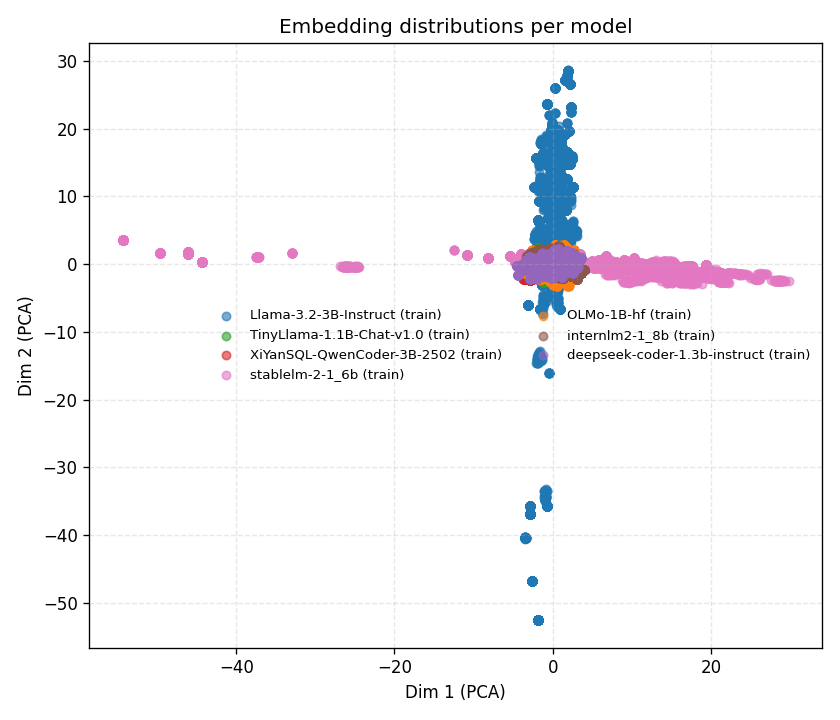
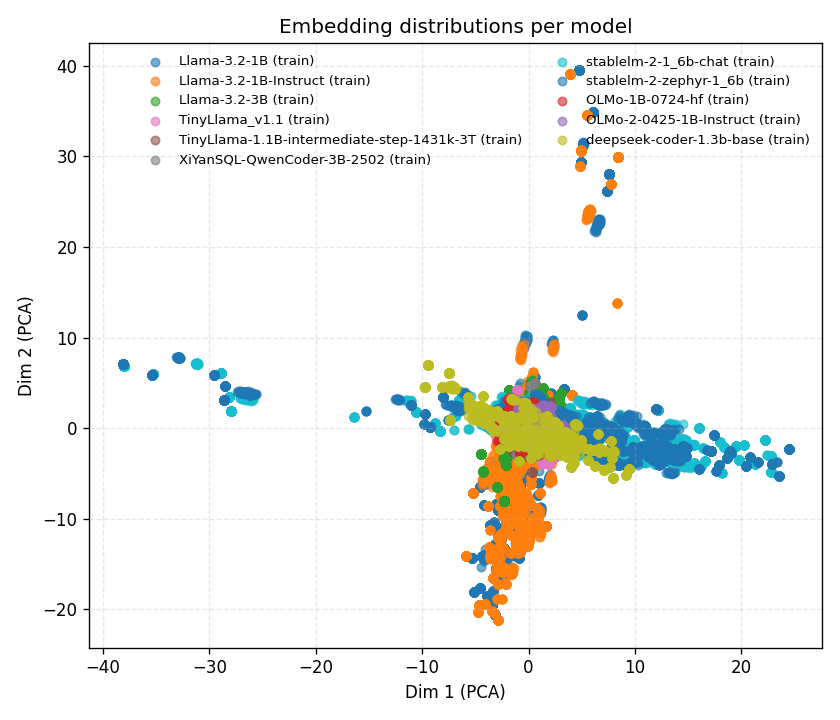
update code

diff --git a/shift_descriptor/pipeline.py b/shift_descriptor/pipeline.py
@@ -59,19 +59,39 @@ def parse_args() -> argparse.Namespace:
     parser.add_argument(
         "--model-ids",
         nargs="*",
-        default=[
-            "meta-llama/Llama-3.2-3B-Instruct",
-            "TinyLlama/TinyLlama-1.1B-Chat-v1.0",
+                default=[
+            # Llama 3.2 family (Meta)
+            "meta-llama/Llama-3.2-1B",
+            "meta-llama/Llama-3.2-1B-Instruct",
+            "meta-llama/Llama-3.2-3B",
+
+            # TinyLlama (Llama-compatible)
+            "TinyLlama/TinyLlama_v1.1",
+            "TinyLlama/TinyLlama-1.1B-intermediate-step-1431k-3T",
+
+            # QwenCoder (XiYanSQL is a finetune of Qwen/Qwen2.x Coder)
+            "Qwen/Qwen2.5-Coder-3B",
+            "Qwen/Qwen2.5-Coder-3B-Instruct",
+            "Qwen/Qwen2.5-Coder-1.5B",
+            "Qwen/Qwen2.5-Coder-1.5B-Instruct",
             "XGenerationLab/XiYanSQL-QwenCoder-3B-2502",
-            "stabilityai/stablelm-2-1_6b",
-            "allenai/OLMo-1B-hf",
-            "internlm/internlm2-1_8b",
-            # "state-spaces/mamba-2.8b-slimpj",
-            # "RWKV/RWKV7-Goose-World3-1.5B-HF",
-            # "google/recurrentgemma-2b-it",
-            # "openbmb/MiniCPM-2B-sft-bf16",
-            "deepseek-ai/deepseek-coder-1.3b-instruct",
-            # "bigscience/bloomz-3b"
+
+            # StableLM-2 (Stability AI)
+            "stabilityai/stablelm-2-1_6b-chat",
+            "stabilityai/stablelm-2-zephyr-1_6b",
+
+            # OLMo (AI2)
+            "allenai/OLMo-1B",
+            "allenai/OLMo-1B-0724-hf",
+            "allenai/OLMo-2-0425-1B-Instruct",
+
+            # InternLM2 (Shanghai AI Lab)
+            "internlm/internlm2-chat-1_8b",
+
+            # DeepSeek Coder family
+            "deepseek-ai/deepseek-coder-1.3b-base",
+            "deepseek-ai/deepseek-coder-6.7b-base",
+            "deepseek-ai/deepseek-coder-6.7b-instruct",
         ],
         help="Optional list of model ids. When omitted, the curated defaults are used.",
     )
